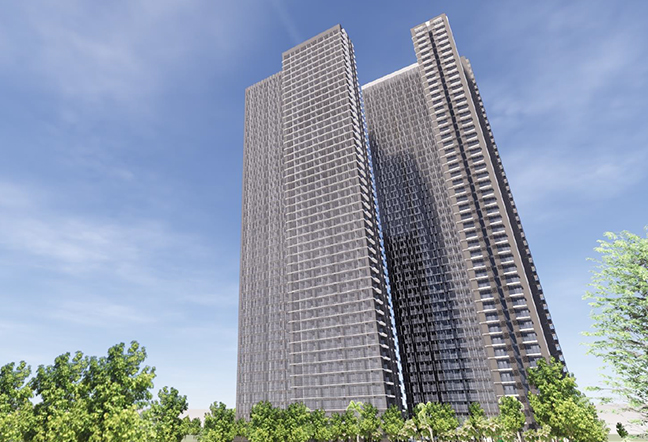
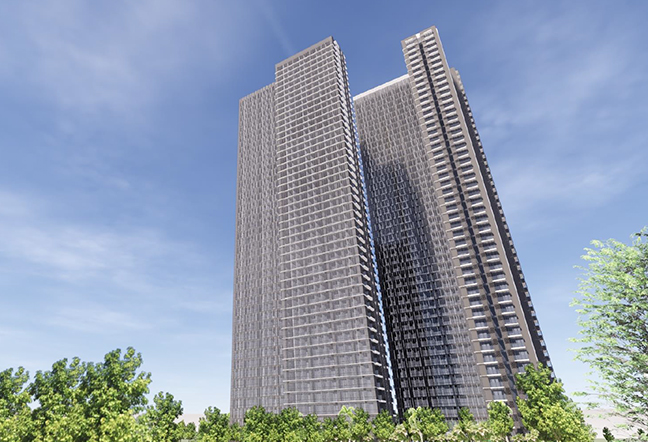
updates homepage

diff --git a/index.html b/index.html
@@ -81,18 +81,7 @@
                             <div class="wrp-content-biography">
                                 <div class="content-biography">
                                     <h5>President</h5>
-                                    <p>Suradjin Sutjipto, a licensed Professional Structural Engineer, holds a Master’s in Earthquake Engineering from UCLA, where he studied under renowned professors Gary C. Hart and Robert E. Englekirk. Recognized for his innovative approach and technical expertise, Suradjin has designed landmark high-rise projects in Indonesia, the United States, and Taiwan, along with industrial and low-rise structures in Malaysia and Australia. With over 35 years of experience, he combines academic insight with practical knowledge, establishing himself as a leader in structural engineering. His contributions to the Indonesian National Standard (SNI) and his dedication to earthquake-resistant design have earned him prestigious accolades, including the Herudi Technical Committee Award.
-                                    </p> 
-                                    <p>Suradjin Sutjipto, a licensed Professional Structural Engineer, holds a Master’s in Earthquake Engineering from UCLA, where he studied under renowned professors Gary C. Hart and Robert E. Englekirk. Recognized for his innovative approach and technical expertise, Suradjin has designed landmark high-rise projects in Indonesia, the United States, and Taiwan, along with industrial and low-rise structures in Malaysia and Australia. With over 35 years of experience, he combines academic insight with practical knowledge, establishing himself as a leader in structural engineering. His contributions to the Indonesian National Standard (SNI) and his dedication to earthquake-resistant design have earned him prestigious accolades, including the Herudi Technical Committee Award.
-                                    </p> 
-                                    <p>Suradjin Sutjipto, a licensed Professional Structural Engineer, holds a Master’s in Earthquake Engineering from UCLA, where he studied under renowned professors Gary C. Hart and Robert E. Englekirk. Recognized for his innovative approach and technical expertise, Suradjin has designed landmark high-rise projects in Indonesia, the United States, and Taiwan, along with industrial and low-rise structures in Malaysia and Australia. With over 35 years of experience, he combines academic insight with practical knowledge, establishing himself as a leader in structural engineering. His contributions to the Indonesian National Standard (SNI) and his dedication to earthquake-resistant design have earned him prestigious accolades, including the Herudi Technical Committee Award.
-                                    </p> 
-                                    <p>Suradjin Sutjipto, a licensed Professional Structural Engineer, holds a Master’s in Earthquake Engineering from UCLA, where he studied under renowned professors Gary C. Hart and Robert E. Englekirk. Recognized for his innovative approach and technical expertise, Suradjin has designed landmark high-rise projects in Indonesia, the United States, and Taiwan, along with industrial and low-rise structures in Malaysia and Australia. With over 35 years of experience, he combines academic insight with practical knowledge, establishing himself as a leader in structural engineering. His contributions to the Indonesian National Standard (SNI) and his dedication to earthquake-resistant design have earned him prestigious accolades, including the Herudi Technical Committee Award.
-                                    </p> 
-                                    <p>Suradjin Sutjipto, a licensed Professional Structural Engineer, holds a Master’s in Earthquake Engineering from UCLA, where he studied under renowned professors Gary C. Hart and Robert E. Englekirk. Recognized for his innovative approach and technical expertise, Suradjin has designed landmark high-rise projects in Indonesia, the United States, and Taiwan, along with industrial and low-rise structures in Malaysia and Australia. With over 35 years of experience, he combines academic insight with practical knowledge, establishing himself as a leader in structural engineering. His contributions to the Indonesian National Standard (SNI) and his dedication to earthquake-resistant design have earned him prestigious accolades, including the Herudi Technical Committee Award.
-                                    </p> 
-                                    <p>Suradjin Sutjipto, a licensed Professional Structural Engineer, holds a Master’s in Earthquake Engineering from UCLA, where he studied under renowned professors Gary C. Hart and Robert E. Englekirk. Recognized for his innovative approach and technical expertise, Suradjin has designed landmark high-rise projects in Indonesia, the United States, and Taiwan, along with industrial and low-rise structures in Malaysia and Australia. With over 35 years of experience, he combines academic insight with practical knowledge, establishing himself as a leader in structural engineering. His contributions to the Indonesian National Standard (SNI) and his dedication to earthquake-resistant design have earned him prestigious accolades, including the Herudi Technical Committee Award.
-                                    </p> 
+                                    <p>Suradjin Sutjipto, a licensed Professional Structural Engineer, holds a Master’s in Earthquake Engineering from UCLA, where he studied under renowned professors Gary C. Hart and Robert E. Englekirk. Recognized for his innovative approach and technical expertise, Suradjin has designed landmark high-rise projects in Indonesia, the United States, and Taiwan, along with industrial and low-rise structures in Malaysia and Australia. With over 35 years of experience, he combines academic insight with practical knowledge, establishing himself as a leader in structural engineering. His contributions to the Indonesian National Standard (SNI) and his dedication to earthquake-resistant design have earned him prestigious accolades, including the Herudi Technical Committee Award.</p> 
                                     <div class="button-dialog-socmed-outline">
                                         <a target="_blank" href="#">
                                             <div class="righ-icon-sn-dialog">
@@ -178,9 +167,9 @@
                                 <li><a href="#">Our Team</a></li>
                             </ul>
                         </div>
-                        <a class="menu-head-accordions" href="foreign-rights.php">
+                        <!-- <a class="menu-head-accordions" href="foreign-rights.php">
                             Careers
-                        </a>
+                        </a> -->
                         <a class="menu-head-accordions" href="foreign-rights.php">
                             Contact Us
                         </a>
@@ -274,7 +263,7 @@
                                     <li><a href="#">Our Team</a></li>
                                 </ul>
                             </li>
-                            <li class="nav-item dropdown dropdown-hover"><a class="nav-link menu-item" href="career.html">Careers</a></li>
+                            <!-- <li class="nav-item dropdown dropdown-hover"><a class="nav-link menu-item" href="career.html">Careers</a></li> -->
                             <li class="nav-item dropdown dropdown-hover"><a class="nav-link menu-item" href="contact.html">Contact Us</a></li>
                         </ul>
                         <div class="music-icon">
@@ -825,7 +814,7 @@
                             <h3>President</h3>
                         </div>
                         <div class="desc-people-home">
-                            <p>Suradjin Sutjipto received his master’s degree in Earthquake Engineering from the University of California, Los Angeles (UCLA) in 1990. He completed his work...</p>
+                            <p>Suradjin Sutjipto, a licensed Professional Structural Engineer, holds a Master’s in Earthquake Engineering from UCLA, where he studied under renowned professors Gary C. Hart and Robert E. Englekirk. Recognized for his innovative approach and technical expertise, Suradjin has designed landmark high-rise projects in Indonesia, the United States, and Taiwan along with industrial and low-rise structures in Malaysia...</p>
                         </div>
                     </a>
                 </div>
@@ -841,7 +830,7 @@
                             <h3>Director</h3>
                         </div>
                         <div class="desc-people-home">
-                            <p>Indrawati Sumeru is a highly accomplished structural engineer and educator, combining extensive experience in both practice and academia. A top graduate of Trisakti...</p>
+                            <p>Indrawati Sumeru is a highly accomplished structural engineer and educator, combining extensive experience in both practice and academia. A top graduate of Trisakti University and the University of Indonesia, she is a licensed Professional Structural Engineer with deep expertise in structural engineering and management. As a Director at Suradjin Sutjipto, Inc. (SSI), she has led high-profile projects...</p>
                         </div>
                     </a>
                 </div>
@@ -857,7 +846,7 @@
                             <h3>Design Manager</h3>
                         </div>
                         <div class="desc-people-home">
-                            <p>William Supardjo holds a bachelor’s degree in Civil Engineering from Tarumanagara University, where he received the Djarum Beasiswa Plus Award and graduated with honors...</p>
+                            <p>William Supardjo holds a bachelor’s degree in Civil Engineering from Tarumanagara University, where he received the Djarum Beasiswa Plus Award and graduated with honors. Certified by ACI and AISC, William has contributed to landmark projects, showcasing his expertise in code-based design, Performance-Based Design (PBD), and structural assessments, with nonlinear analysis applied in both PBD...</p>
                         </div>
                     </a>
                 </div>
@@ -873,7 +862,7 @@
                             <h3>BIM & CAD Manager</h3>
                         </div>
                         <div class="desc-people-home">
-                            <p>Sherrica A. Sucipto completed her Civil Engineering degree at Trisakti University, graduating as the top student with a specialization in structural design...</p>
+                            <p>Sherrica A. Sucipto completed her Civil Engineering degree at Trisakti University, graduating as the top student with a specialization in structural design, detailing, and BIM. During her internship, she gained valuable insights into the constructibility of structural designs. Throughout her career, she has contributed to major projects, including high-rise office buildings, mixed-use developments, complex steel...</p>
                         </div>
                     </a>
                 </div>
@@ -889,7 +878,7 @@
                             <h3>BIM & CAD Manager</h3>
                         </div>
                         <div class="desc-people-home">
-                            <p>Sherrica A. Sucipto completed her Civil Engineering degree at Trisakti University, graduating as the top student with a specialization in structural design...</p>
+                            <p>Sherrica A. Sucipto completed her Civil Engineering degree at Trisakti University, graduating as the top student with a specialization in structural design, detailing, and BIM. During her internship, she gained valuable insights into the constructibility of structural designs. Throughout her career, she has contributed to major projects, including high-rise office buildings, mixed-use developments, complex steel...</p>
                         </div>
                     </a>
                 </div>
@@ -905,7 +894,7 @@
                             <h3>BIM & CAD Manager</h3>
                         </div>
                         <div class="desc-people-home">
-                            <p>Sherrica A. Sucipto completed her Civil Engineering degree at Trisakti University, graduating as the top student with a specialization in structural design...</p>
+                            <p>Sherrica A. Sucipto completed her Civil Engineering degree at Trisakti University, graduating as the top student with a specialization in structural design, detailing, and BIM. During her internship, she gained valuable insights into the constructibility of structural designs. Throughout her career, she has contributed to major projects, including high-rise office buildings, mixed-use developments, complex steel...</p>
                         </div>
                     </a>
                 </div>

diff --git a/assets/css/style.css b/assets/css/style.css
@@ -78,7 +78,7 @@ body.unscrolled {
 }
 .modal-backdrop.show {
 	opacity: .82;
-	background: rgba(255, 255, 255, 0.76);
+	background: rgba(0, 0, 0, 0.76);
 	border-radius: 16px;
 	box-shadow: 0 4px 30px rgba(0, 0, 0, 0.1);
 	backdrop-filter: blur(17.4px);
@@ -310,13 +310,13 @@ body.unscrolled {
 }
 
 .wrp-nav-item {
-	min-width: 552px;
+	min-width: 486px;
 	width: auto;
 }
 
 .navbar-align-right {
 	/* min-width: 746px; */
-	min-width: 552px;
+	min-width: 486px;
 	width: auto;
 	display: flex;
 	flex-wrap: wrap;
@@ -359,7 +359,7 @@ body.unscrolled {
 	/* font: clamp(0.9525rem, 0.5804rem + 0.4651vw, 0.9775rem) var(--font-arial); */
 	font: normal 400 clamp(0.8663rem, 0.736rem + 0.1628vw, 0.875rem) var(--font-arial);
 	letter-spacing: 0.14px;
-	line-height: 124%;
+	line-height: 120%;
 	padding-left: 5px;
 	padding-right: 5px;
 }
@@ -367,7 +367,7 @@ body.unscrolled {
 .navbar-align-right ul li.dropdown-hover::before{
 	position: absolute;
 	width: 0;
-	height: 6.4px;
+	height: 4.64px;
 	/* background: var(--gray-950); */
 	/* background: #e18750; */
 	background: linear-gradient(to right,  rgba(76,26,2,1) 0%,rgba(88,32,5,1) 7%,rgba(122,49,13,1) 18%,rgba(130,51,12,1) 27%,rgba(155,64,17,1) 37%,rgba(204,107,53,1) 54%,rgba(223,125,68,1) 77%,rgba(225,135,80,1) 100%);
@@ -404,7 +404,7 @@ body.unscrolled {
 	font: normal 400 clamp(0.8663rem, 0.736rem + 0.1628vw, 0.875rem) var(--font-arial);
 	letter-spacing: 0.14px;
 	line-height: 124%;
-	width: 86%;
+	width: 80%;
 }
 
 .navbar-align-right ul li:hover .text-parent {
@@ -1743,6 +1743,18 @@ main .span-high{
 
 .card-services-images figure{
 	padding: 0px;
+	display: flex;
+	flex-wrap: wrap;
+	justify-content: center;
+	-ms-justify-content: center;
+	-moz-justify-content: center;
+	-webkit-justify-content: center;
+	align-items: center;
+	-ms-align-items: center;
+	-moz-align-items: center;
+	-webkit-align-items: center;
+	max-height: 274px;
+	overflow-y: hidden;
 }
 
 .card-services-images img{
@@ -1843,7 +1855,8 @@ main .span-high{
 	-ms-justify-content: flex-start;
 	-moz-justify-content: flex-start;
 	-webkit-justify-content: flex-start;
-	margin-top: 24px;
+	/* margin-top: 24px; */
+	margin-top: 18px;
 	margin-bottom: 56.64px;	
 }
 
@@ -1946,11 +1959,11 @@ main .span-high{
 .row-card-people .wrp-card-people::before{
 	content: " ";
 	width: 1px;
-	height: 100%;
+	height: 99.24%;
 	background: var(--gray-200);
 	position: absolute;
 	right: -18.5px;
-	top: 0px;
+	top: 1px;
 }
 
 .row-card-people .wrp-card-people:last-child::before {
@@ -1977,10 +1990,11 @@ main .span-high{
 
 .card-photo-people{
 	width: 100%;
-	min-height: 225px;
-	max-height: 244px;
+	min-height: 195.5px;
+	max-height: 195.6px;
 	overflow: hidden;
-	margin-bottom: 23px;
+	/* margin-bottom: 23px; */
+	margin-bottom: 20px;
 	display: flex;
 	flex-wrap: wrap;
 	justify-content: center;
@@ -2041,10 +2055,16 @@ main .span-high{
 	padding-left: 0px;
 	padding-right: 0px;	
 	/* font: normal 400 clamp(0.8525rem, 0.5176rem + 0.4186vw, 0.875rem) var(--font-arial); */
-	font: normal 400 clamp(0.765rem, 0.058rem + 0.8837vw, 0.8125rem) var(--font-arial);
+	font: normal 400 clamp(0.715rem, 0.051rem + 0.8637vw, 0.7925rem) var(--font-arial);
 	color: var(--gray-700);
-	letter-spacing: 0.20px;
+	letter-spacing: 0.04px;
 	line-height: 18.64px;
+	height: 167px;
+	display: -webkit-box;
+	-webkit-line-clamp: 9;
+	-webkit-box-orient: vertical;
+	overflow: hidden;
+	text-overflow: ellipsis;
 }
 .desc-people-home p{
 	margin-bottom: 5px;
@@ -2248,7 +2268,8 @@ main .span-high{
 	width: 18px;
 	height: 18px;
 	padding: 3px 3px;
-	margin-left: 16px;
+	margin-left: 8px;
+	margin-right: 8px;
 }
 
 .right-icon-ar-dialog svg{
@@ -2295,7 +2316,7 @@ main .span-high{
 .button-dialog-socmed-outline a{
 	text-decoration: none!important;
 	outline: none;
-	width: 176px;
+	width: 166.5px;
 	height: 48px;
 	display: flex;
 	flex-wrap: wrap;
@@ -3624,7 +3645,8 @@ main .span-high{
 	height: auto;
 	min-height: 124px;
 	padding: 18px 0px 0px 0px;
-	background: #385623;
+	background: #385623 url(../images/footer-background-texture.jpg) top right no-repeat;
+	background-size: 58.76%;
 }
 
 .footer-row-one{
@@ -3680,7 +3702,7 @@ main .span-high{
 }
 
 .right-col-footer {
-	padding-left: 36px;
+	padding-left: 46px;
 	width: 29.74%;
 	height: auto;
 	position: relative;
@@ -3782,7 +3804,8 @@ main .span-high{
 	}
 
 	.wrp-nav-item {
-		min-width: 664px;
+		/* min-width: 664px; */
+		min-width: 492px;
 		width: auto;
 	}
 
@@ -3796,7 +3819,8 @@ main .span-high{
 	}
 
 	.wrp-card-people {
-		width: 236px;
+		/* width: 236px; */
+		width: 14.54%;
 	}
 	.card-photo-people {
 		min-height: 261px;
@@ -3804,9 +3828,14 @@ main .span-high{
 	}
 
 	.slick.marquee .slick-slide .inner {
-		margin-left: 6px;
-		margin-right: 6px;
-		width: 138px;
+		margin-left: 12px;
+		margin-right: 12px;
+		padding-left:16px;
+		padding-right: 16px;
+		width: 216px;
+	}
+	.slick.marquee .slick-slide .inner img {
+		max-width: 105%;
 	}
 
 	.row-grid .column-gallery:nth-child(3) .card-project-case:nth-child(1) {
@@ -3841,8 +3870,8 @@ main .span-high{
 	}
 
 	.row-grid .column-gallery:nth-child(1) .card-project-case:nth-child(3), .row-grid .column-gallery:nth-child(4) .card-project-case:nth-child(3){
-		min-height: 229px;
-		max-height: 229px !important;
+		min-height: 230.5px;
+		max-height: 230.5px !important;
 		overflow: hidden !important;
 	}
 
@@ -3852,7 +3881,7 @@ main .span-high{
 	}
 
 	#modalseePeople .modal-dialog-people {
-		max-width: 876px;
+		max-width: 914px;
 		min-height: 424px;
 		max-height: 426px;
 		margin-top: 114px;
@@ -3873,6 +3902,18 @@ main .span-high{
 		max-width: 72%;
 		flex: 0 0 72%;
 		-ms-flex: 0 0 72%;
+	}
+	.desc-people-home {
+		display: -webkit-box;
+		-webkit-line-clamp: 14;
+		-webkit-box-orient: vertical;
+		overflow: hidden;
+		text-overflow: ellipsis;
+		height: 246px;
+	}
+
+	.footer{
+		background-size: 42%;
 	}
 
 }
